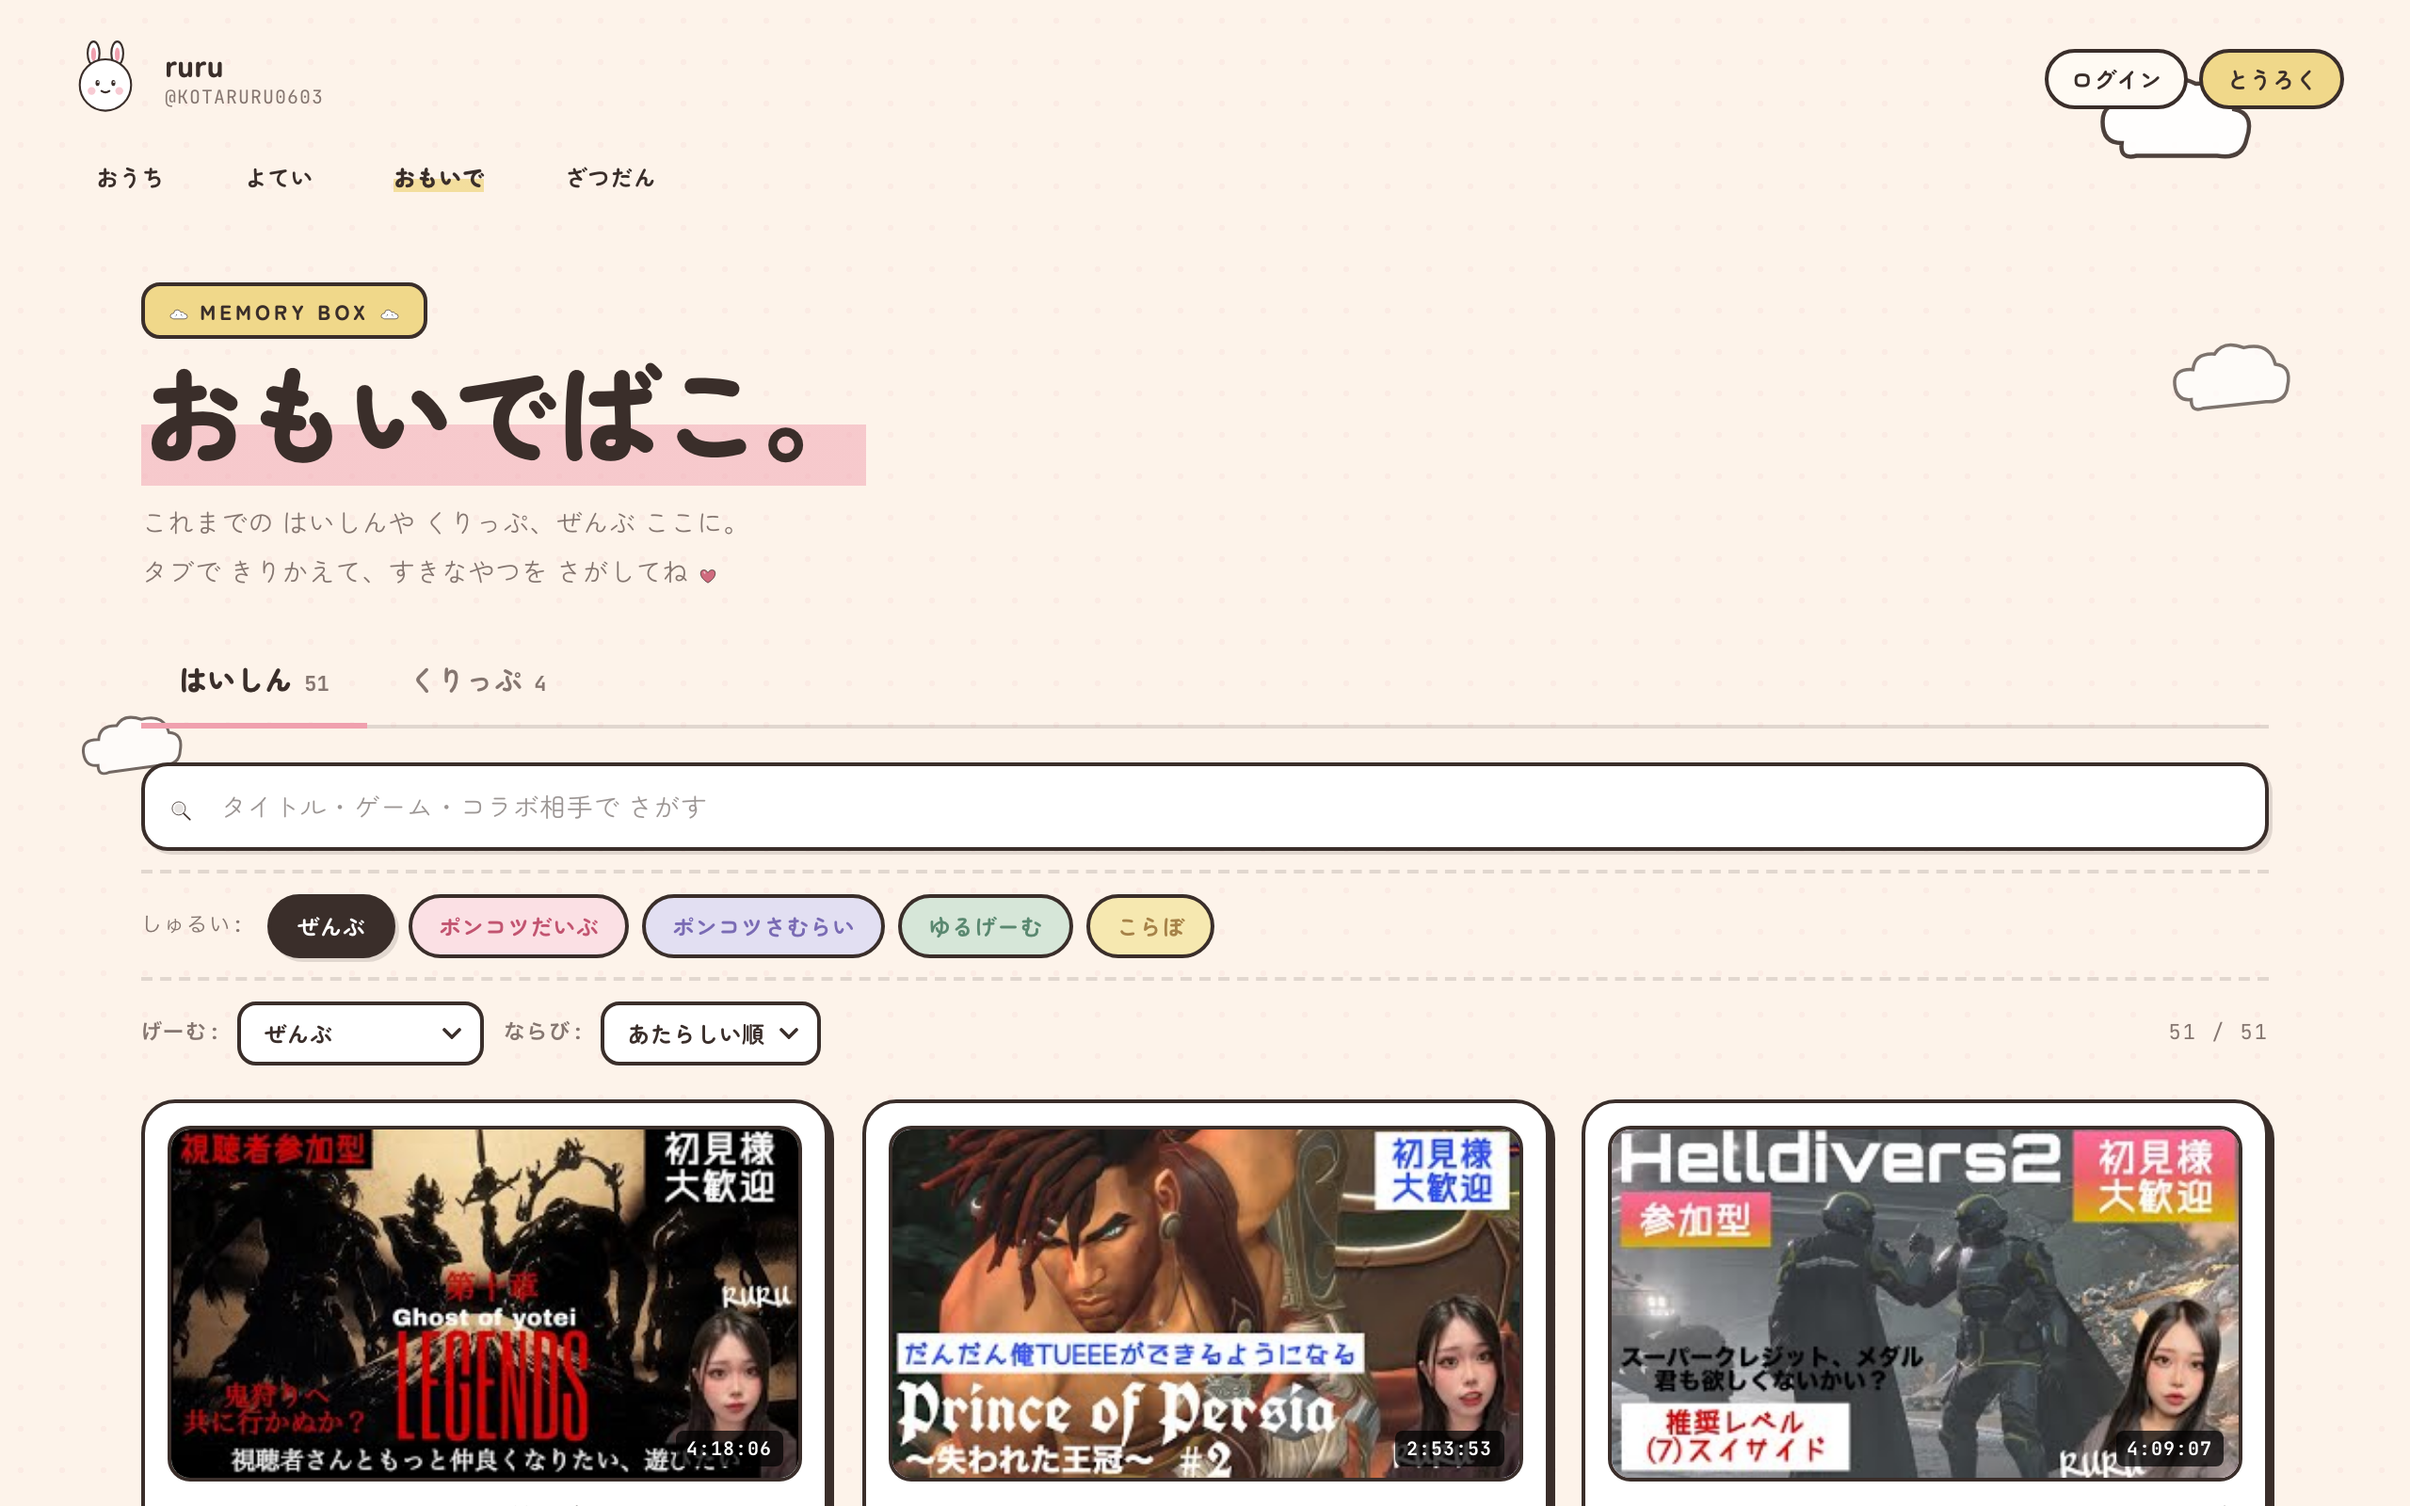
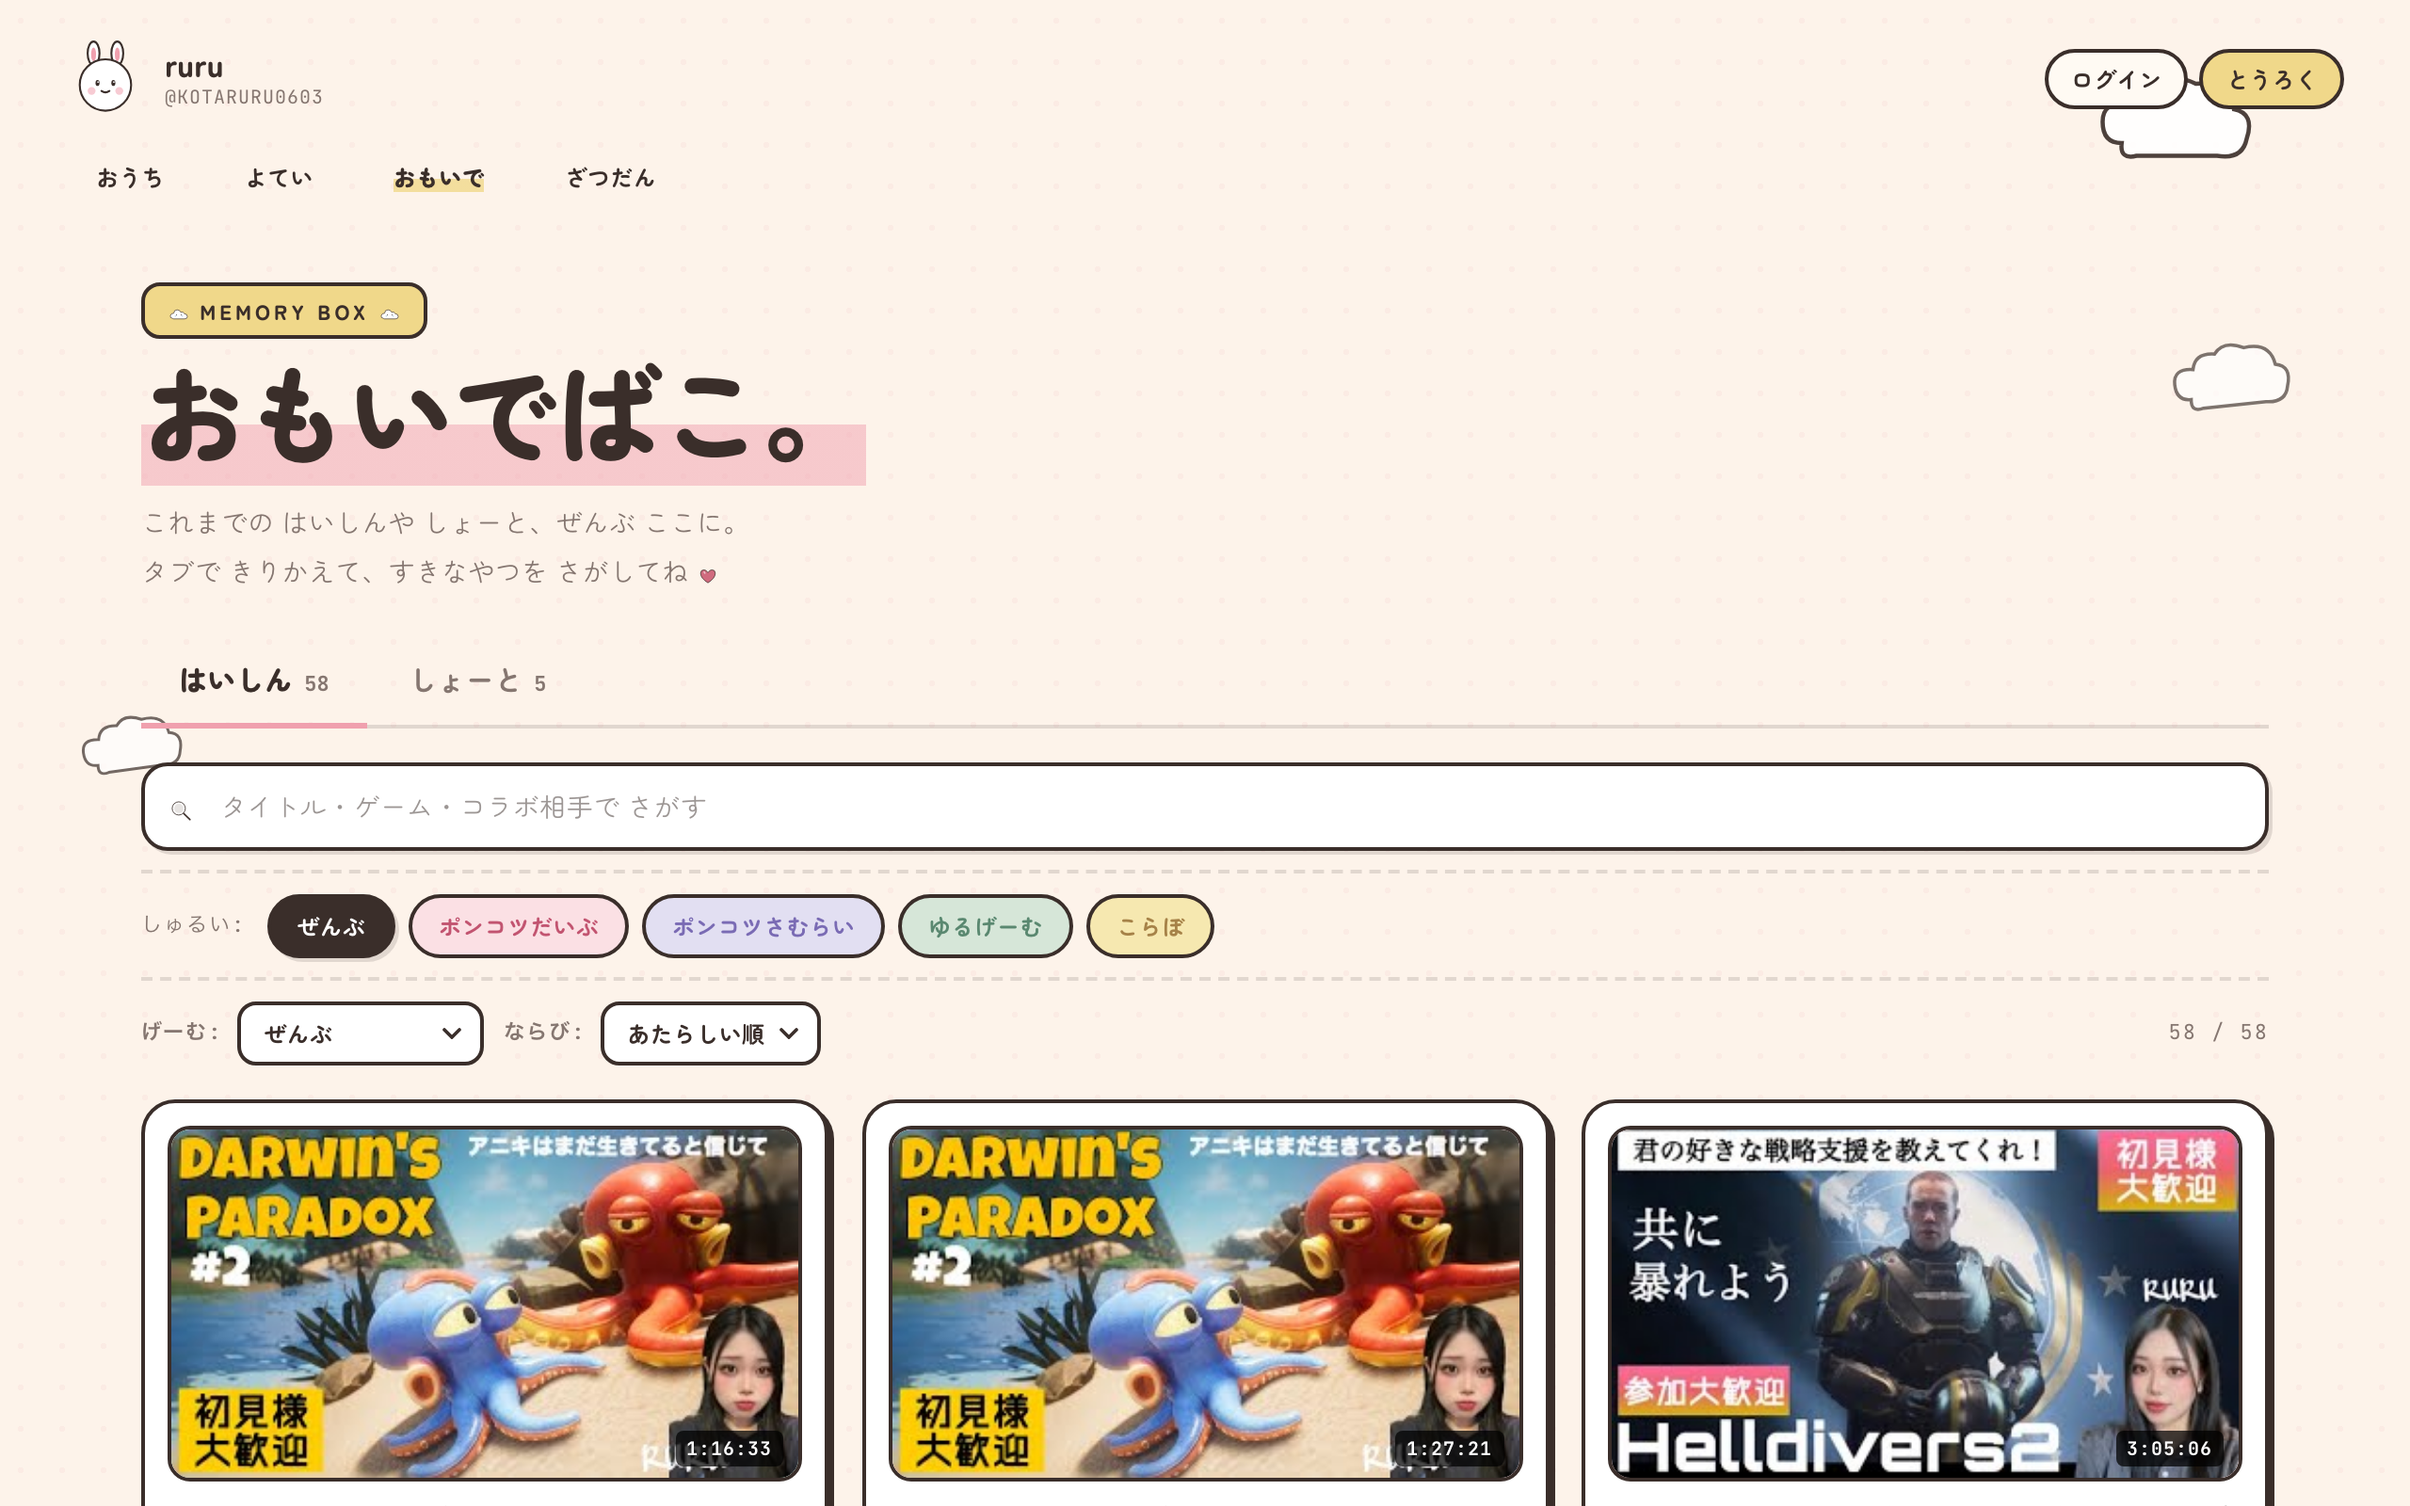
Refresh clips with 5th entry and 2026-05-05 archive numbers
Pull the latest archive snapshot from the live fan-site
(2026-05-05) which now contains a 5th short:
qv53jUS37jI 「証拠はちゃんと撮ったなり」 (61s, 2,413 views)
sourced from the Helldivers2 #23 るるゴリ初コラボ stream.

Updated view counts on the existing four clips and bumped asOf
to 2026-05-05. Case description rewritten to reflect 短編5本.
Refreshed fan-site / sites screenshots accordingly.

Changed region(s): [[0.0625, 0.75, 0.9375, 1.0], [0.1875, 0.4375, 0.2188, 0.4688]]

diff --git a/data/works/kotaruru0603/clips.ts b/data/works/kotaruru0603/clips.ts
@@ -23,9 +23,9 @@ export const clips: Clip[] = [
       cutDurationSec: 76,
     },
     metrics: {
-      views: 1646,
+      views: 1653,
       likes: 17,
-      asOf: "2026-04-27",
+      asOf: "2026-05-05",
     },
     selection: {
       who: "ruru",
@@ -82,9 +82,9 @@ export const clips: Clip[] = [
       cutDurationSec: 52,
     },
     metrics: {
-      views: 2238,
+      views: 2254,
       likes: 16,
-      asOf: "2026-04-27",
+      asOf: "2026-05-05",
     },
     selection: {
       who: "us",
@@ -141,9 +141,9 @@ export const clips: Clip[] = [
       cutDurationSec: 126,
     },
     metrics: {
-      views: 236,
+      views: 271,
       likes: 11,
-      asOf: "2026-04-27",
+      asOf: "2026-05-05",
     },
     selection: {
       who: "ruru",
@@ -195,9 +195,9 @@ export const clips: Clip[] = [
       cutDurationSec: 43,
     },
     metrics: {
-      views: 2367,
+      views: 2404,
       likes: 10,
-      asOf: "2026-04-27",
+      asOf: "2026-05-05",
     },
     selection: {
       who: "us",
@@ -226,6 +226,54 @@ export const clips: Clip[] = [
     learnings: [
       "演出の質より「投稿時間 × 尺 × タイトルの引き」を整える方が、伸びへの寄与が大きい。",
       "配信者側からのリスク指摘 (罵倒系コメントの誘発リスク) を運用の安全弁として組み込んだ。",
+    ],
+  },
+  {
+    slug: "05-evidence",
+    sequenceNo: 5,
+    title: "証拠はちゃんと撮ったなり",
+    fullTitle: "証拠はちゃんと撮ったなり",
+    postedAt: "2026-05-02",
+    shortVideoId: "qv53jUS37jI",
+    source: {
+      videoId: "fhwwUmiVT50",
+      title: "[Helldivers2]ポンコツダイバー[るるゴリ初コラボ]#23 参加大歓迎!！",
+      totalDurationSec: 19147,
+      segments: [
+        {
+          start: "0:00",
+          end: "0:00",
+          label: "コラボ相手とのやりとりで証拠を撮る場面 (範囲は仮置き)",
+        },
+      ],
+      cutDurationSec: 61,
+    },
+    metrics: {
+      views: 2413,
+      likes: 14,
+      asOf: "2026-05-05",
+    },
+    selection: {
+      who: "us",
+      reasoning:
+        "るるゴリさんとの初コラボ配信から、コラボ相手のキャラクター性が伝わる場面を選定。1 配信の中でやりとりが完結する区間を切り出し、初見でも文脈が追える長さ (61 秒) に収めた。",
+    },
+    telops: [
+      {
+        caption: "「証拠はちゃんと撮ったなり」",
+        intent:
+          "配信者の語尾「なり」をタイトル・テロップで踏襲。コラボ配信の世界観を切り抜きにも持ち込む狙い。",
+      },
+    ],
+    productionNotes: [
+      "尺は 61 秒。シリーズの直近 4 本の平均 (74 秒) より短い設計を踏襲。",
+      "コラボ配信からの抽出は今回が初回。1 人配信時より文脈の引き継ぎ量が多いため、対話が完結する区間で切る方針を採った。",
+    ],
+    outcome:
+      "投稿後 3 日で 2,400 再生に到達し、4 本目に並ぶペースで伸長。コラボ配信からの切り抜きでも単独配信回と遜色ない数字が出ることを確認。",
+    learnings: [
+      "コラボ配信からの切り抜きは、文脈完結性を優先することで単独配信と同等の到達が見込める。",
+      "シリーズ通しで「短く・夜帯・引きのあるタイトル」の方針が継続して機能している。",
     ],
   },
 ];

diff --git a/data/works/kotaruru0603/index.ts b/data/works/kotaruru0603/index.ts
@@ -11,7 +11,7 @@ export const kotaruru0603Case: CaseSummary = {
   startedAt: "2026-04-04",
   status: "案件協力中",
   description:
-    "2026年4月から継続協力中の案件。切り抜き制作 (短編4本) を起点に、視聴者向けファンサイト本体・配信者向け管理画面・世界観素材 (アイコン集 / 動物部屋) を順次構築。配信者本人が運用更新する体制までを納品している。",
+    "2026年4月から継続協力中の案件。切り抜き制作 (短編5本) を起点に、視聴者向けファンサイト本体・配信者向け管理画面・世界観素材 (アイコン集 / 動物部屋) を順次構築。配信者本人が運用更新する体制までを納品している。",
   clips,
   fanSite,
   siteGroups,
